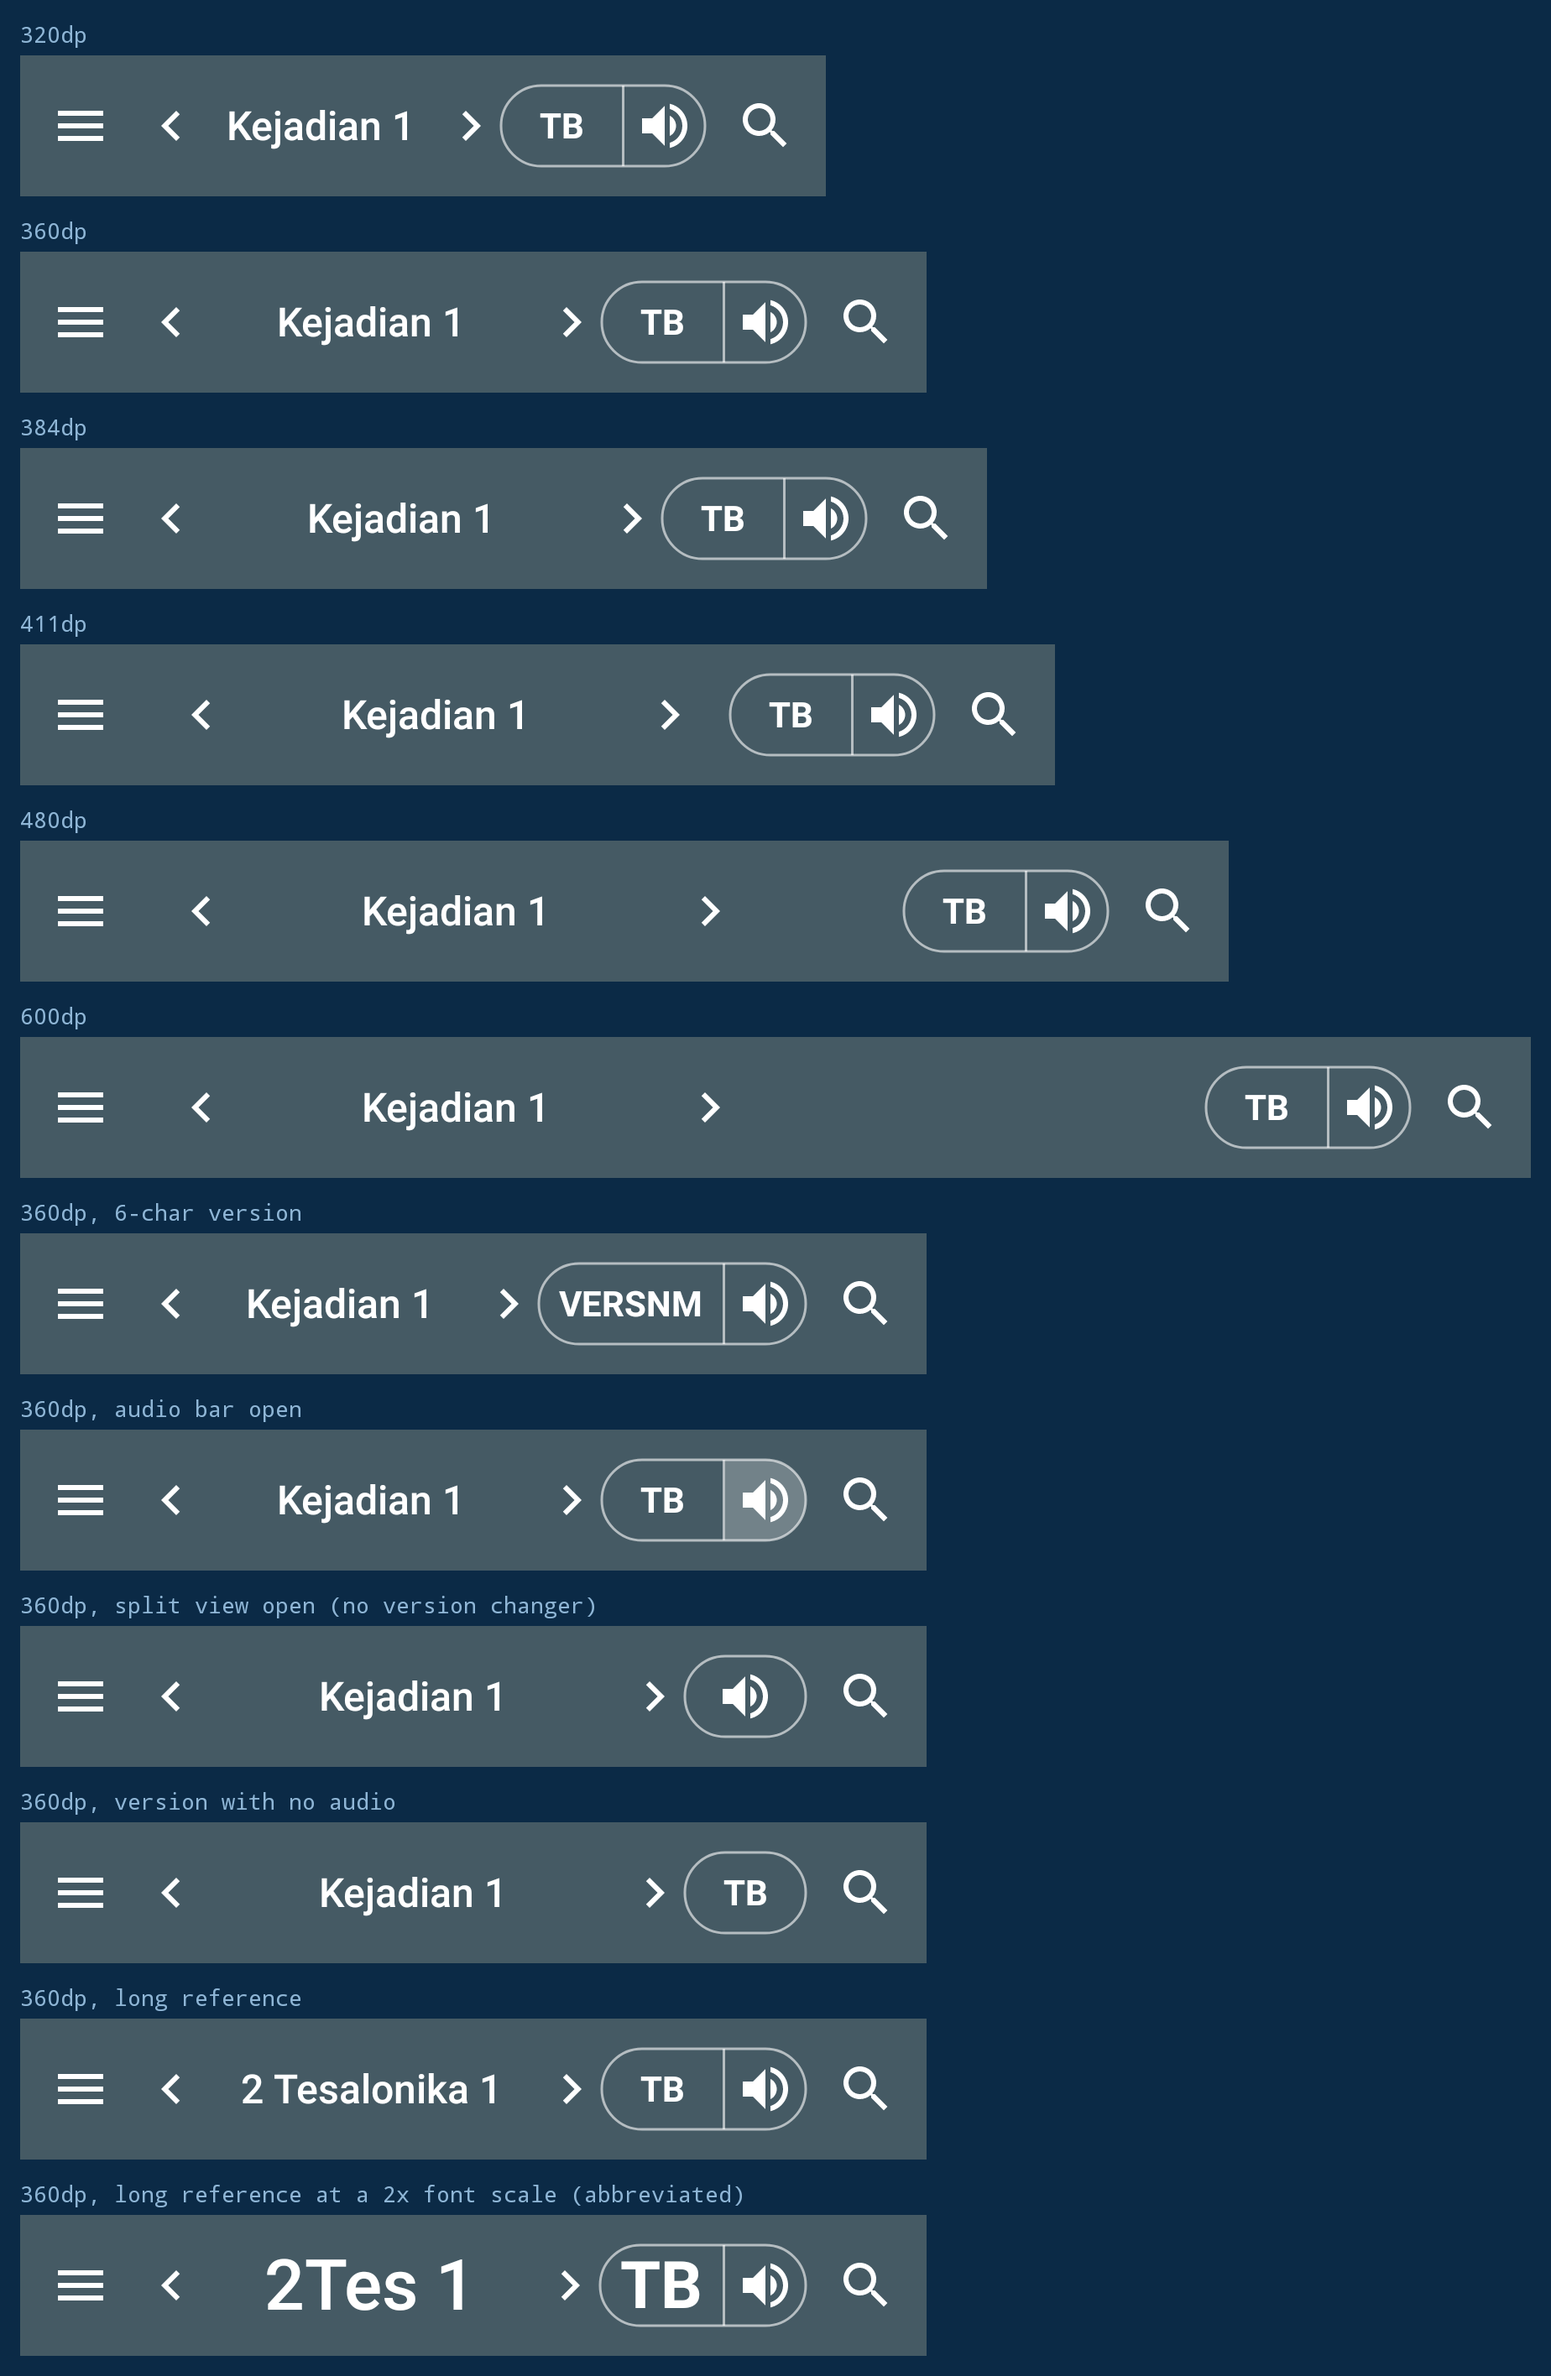
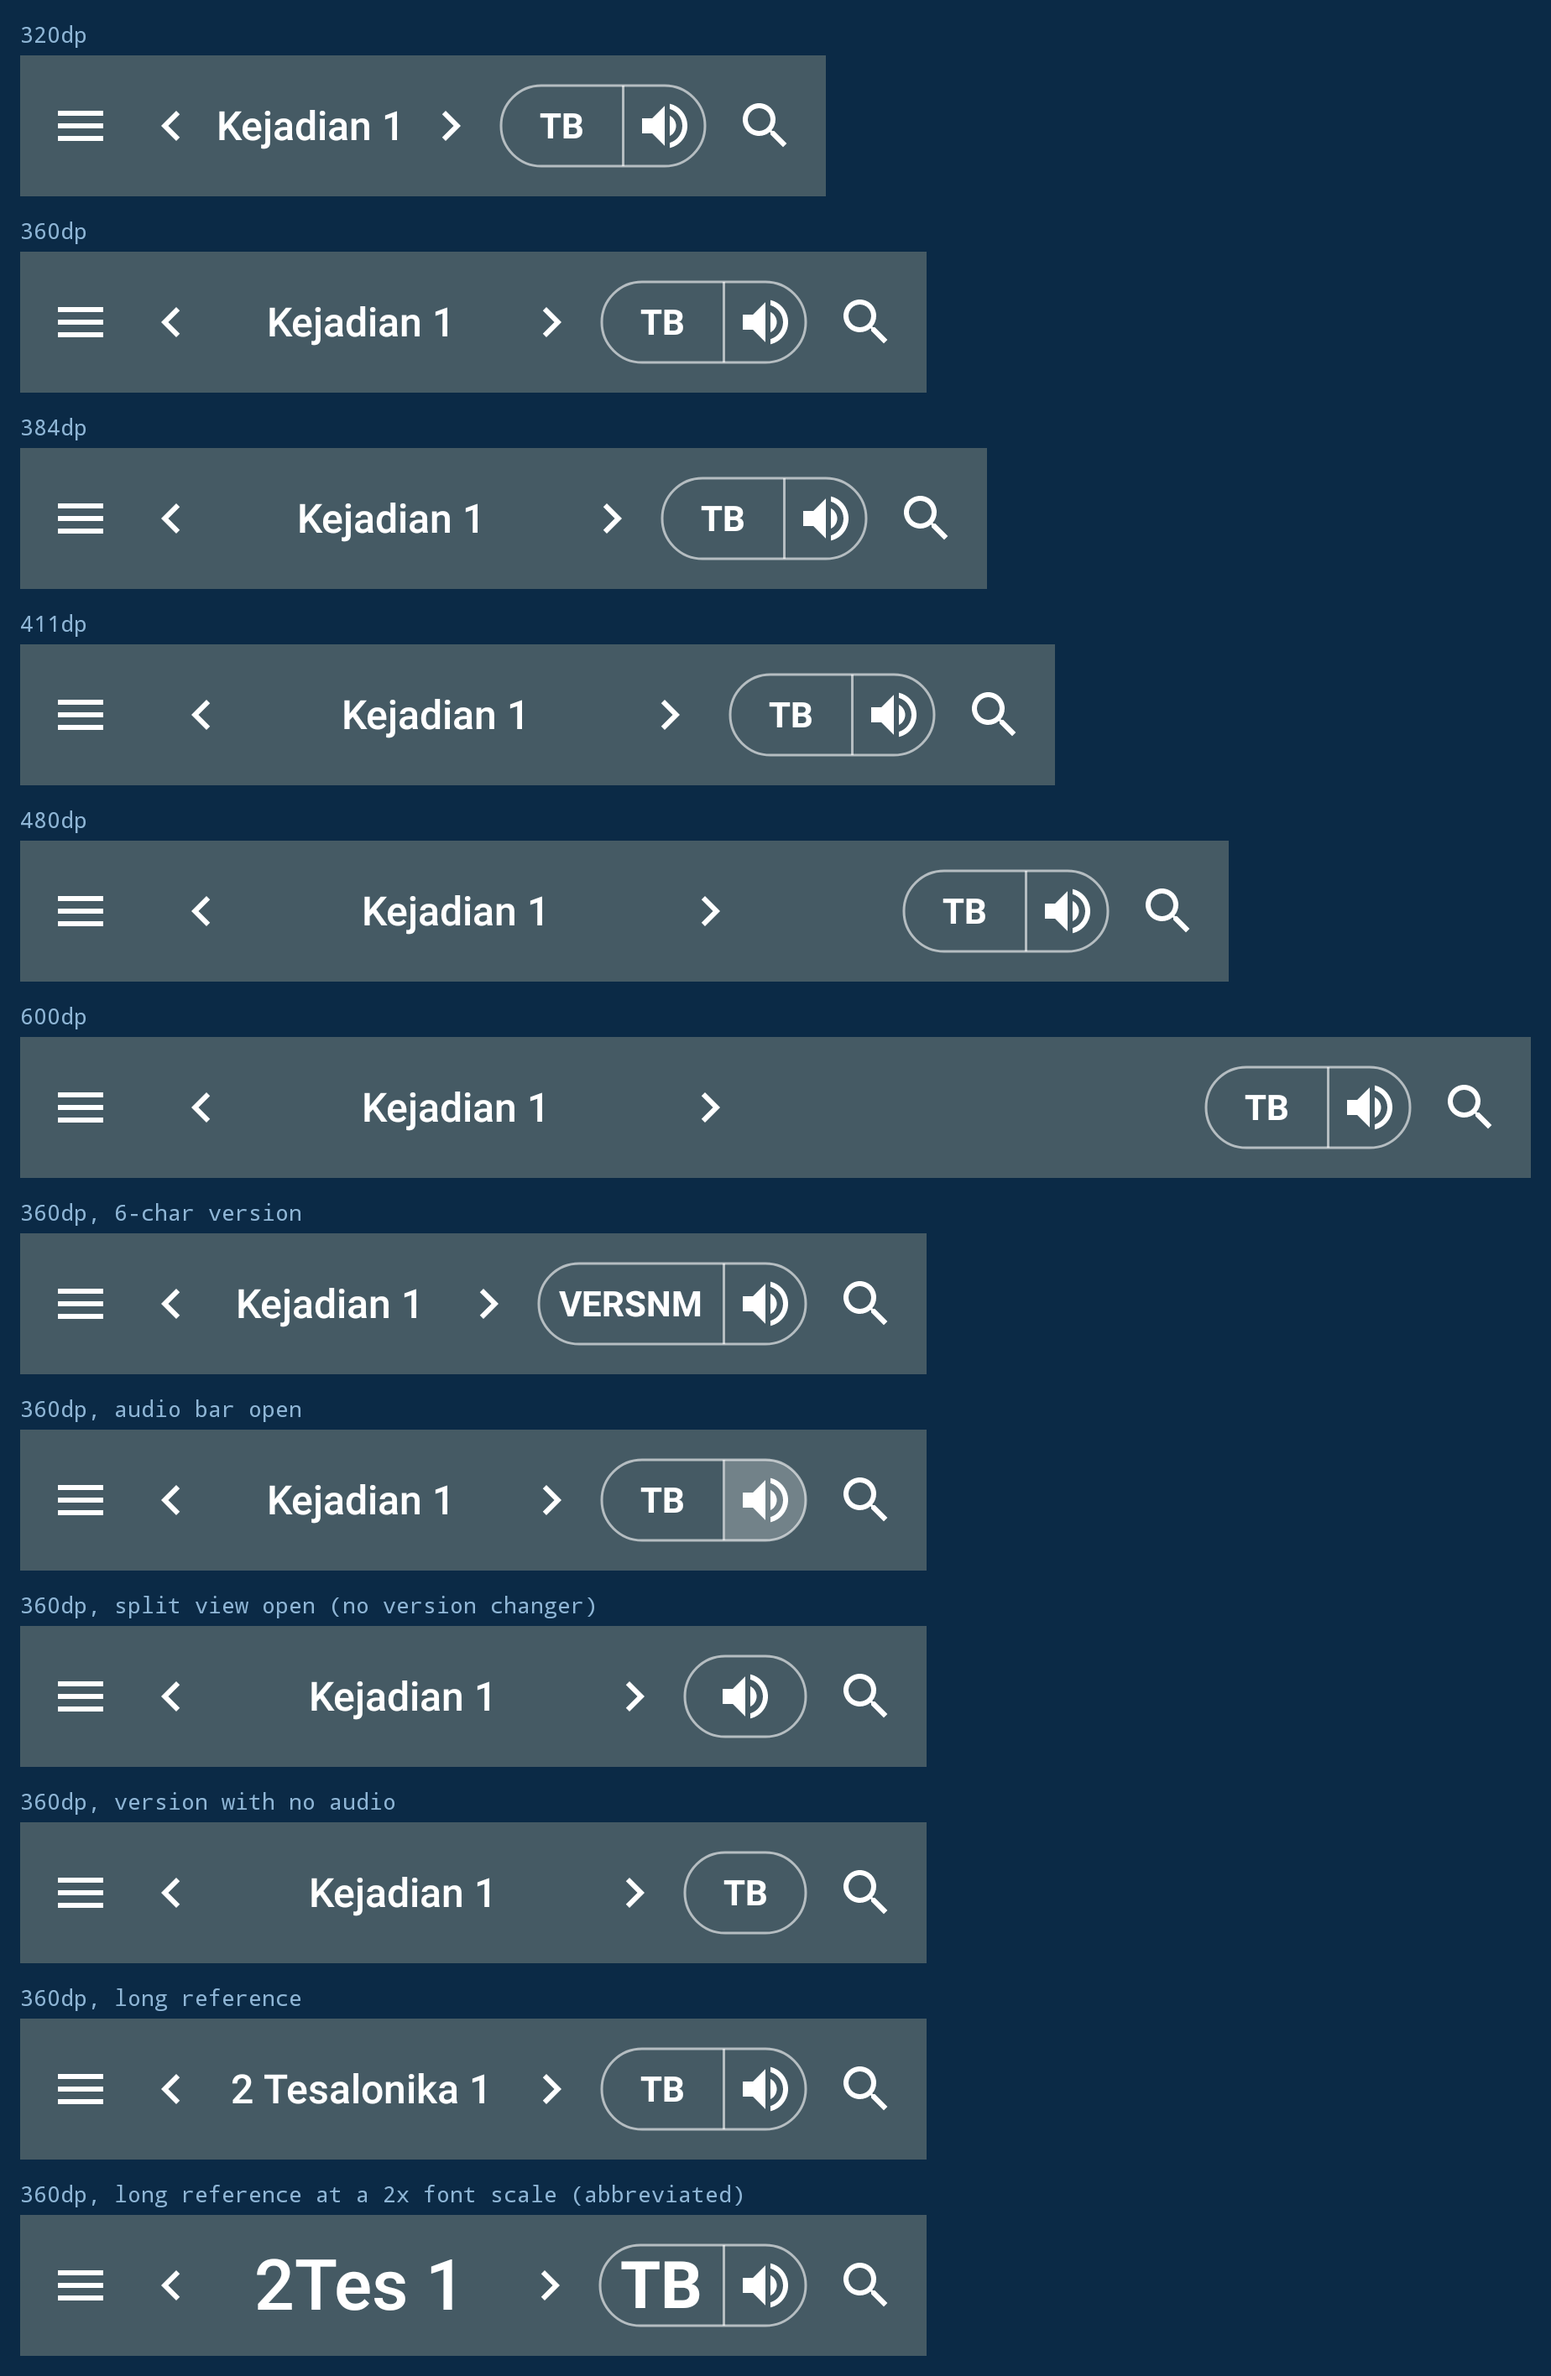
Keep the reader toolbar stadium 8dp clear of a flush chevron
Below 411dp the next chapter chevron is drawn against the outer edge of
its own box, which leaves it hard against the version/audio stadium.
Reserve 8dp in front of the stadium at those widths, taking the chevron's
ink from 7dp off the stadium outline to 15dp. The stadium stays
right-anchored against the search button, so the clearance comes out of
the navigation cluster's width instead of moving the control. At 411dp
and above the chevron is centred in its own box and already stands half a
box clear, so nothing is added, and with both stadium halves hidden there
is nothing to keep clear of.

Add a render that writes every case the clearance depends on (six widths
crossed with the four combinations of stadium halves), plus checks for
the stadium's drawn left edge at each width.

Claude-Session: https://claude.ai/code/session_019omvKkYrcnyVKUe7b3Bmvw

diff --git a/Alkitab/src/test/java/yuku/alkitab/base/compose/toolbar/ReaderToolbarComposeTest.kt b/Alkitab/src/test/java/yuku/alkitab/base/compose/toolbar/ReaderToolbarComposeTest.kt
@@ -166,10 +166,31 @@ class ReaderToolbarComposeTest {
     /** Either half on its own keeps the stadium and takes the 48dp minimum. */
     private val loneSegmentDp = ReaderToolbarDimens.chipMinWidth.value
 
+    /** Reserved in front of the stadium for as long as the next chevron is flush. */
+    private fun versionGapDp(widthDp: Int, segmentDp: Float) =
+        if (segmentDp > 0f && widthDp < ReaderToolbarDimens.flushBelowWidth.value) {
+            ReaderToolbarDimens.versionGap.value
+        } else {
+            0f
+        }
+
     private fun clusterWidthDp(widthDp: Int, segmentDp: Float) = minOf(
-        widthDp - ReaderToolbarDimens.drawerWidth.value - ReaderToolbarDimens.searchWidth.value - segmentDp,
+        widthDp - ReaderToolbarDimens.drawerWidth.value - ReaderToolbarDimens.searchWidth.value -
+            segmentDp - versionGapDp(widthDp, segmentDp),
         ReaderToolbarDimens.clusterMaxWidth.value,
     )
+
+    /** Leftmost column the stadium outline is painted on, in dp from the bar's left edge. */
+    private fun stadiumLeftDp(laid: Laid): Float {
+        val clusterRight = laid.referenceTouch.right + px(laid.arrowDp)
+        val box = Rect(
+            clusterRight,
+            laid.referenceTouch.top,
+            laid.bitmap.width - px(ReaderToolbarDimens.searchWidth.value),
+            laid.referenceTouch.bottom,
+        )
+        return dp(firstInkColumn(laid.bitmap, box))
+    }
 
     @Test
     fun `the drawer button gives up the 56dp the navigation style forces on the view toolbar`() {
@@ -264,6 +285,57 @@ class ReaderToolbarComposeTest {
     }
 
     @Test
+    fun `the stadium stays against the search button and takes its clearance out of the cluster`() {
+        for (widthDp in shippingWidths) {
+            val laid = layOut(widthDp, stateFor())
+            val clusterRightDp = dp(laid.referenceTouch.right) + laid.arrowDp
+            // Right-anchored next to search, so where the cluster stops short
+            // of it the slack shows up in front of the stadium.
+            val expectedLeftDp = widthDp - ReaderToolbarDimens.searchWidth.value - shortSegmentDp
+            assertEquals("stadium left edge at ${widthDp}dp", expectedLeftDp, stadiumLeftDp(laid), 0.7f)
+            assertTrue(
+                "the stadium should keep its clearance at ${widthDp}dp",
+                expectedLeftDp - clusterRightDp >= versionGapDp(widthDp, shortSegmentDp) - 0.7f,
+            )
+        }
+    }
+
+    @Test
+    fun `a flush next chevron is held 8dp off the stadium`() {
+        for (widthDp in listOf(320, 360, 384)) {
+            val laid = layOut(widthDp, stateFor())
+            val clusterRightDp = dp(laid.referenceTouch.right) + laid.arrowDp
+            assertEquals(
+                "clearance at ${widthDp}dp",
+                ReaderToolbarDimens.versionGap.value,
+                stadiumLeftDp(laid) - clusterRightDp,
+                0.7f,
+            )
+        }
+    }
+
+    @Test
+    fun `a centred next chevron stands clear on its own and is given nothing extra`() {
+        val laid = layOut(411, stateFor())
+        val clusterRightDp = dp(laid.referenceTouch.right) + laid.arrowDp
+        assertEquals(0f, stadiumLeftDp(laid) - clusterRightDp, 0.7f)
+    }
+
+    @Test
+    fun `an absent stadium reserves no clearance`() {
+        for (widthDp in listOf(320, 360, 384)) {
+            val bare = stateFor(audio = false).copy(versionVisible = false)
+            val laid = layOut(widthDp, bare)
+            assertEquals(
+                "cluster width at ${widthDp}dp",
+                clusterWidthDp(widthDp, 0f),
+                dp(laid.clusterWidthPx(px(laid.arrowDp))),
+                0.7f,
+            )
+        }
+    }
+
+    @Test
     fun `a version name longer than six characters is cut to five plus an ellipsis`() {
         assertEquals("TB", versionLabelFor("TB"))
         assertEquals("VERSNM", versionLabelFor("VERSNM"))
@@ -333,6 +405,39 @@ class ReaderToolbarComposeTest {
             "360dp, long reference" +
             "360dp, long reference at a 2x font scale (abbreviated)"
 
+        writeSheet("compose-toolbar.png", laids, labels)
+    }
+
+    /**
+     * Not a pass/fail guard: every combination the clearance in front of the
+     * stadium depends on, which is the chevron placement crossed with which
+     * halves of the stadium are present.
+     */
+    @Test
+    fun `render every case the stadium clearance depends on`() {
+        val stadiumCases = listOf(
+            "version + audio" to stateFor(),
+            "version only" to stateFor(audio = false),
+            "audio only" to stateFor().copy(versionVisible = false),
+            "neither" to stateFor(audio = false).copy(versionVisible = false),
+        )
+        val widths = shippingWidths
+
+        val laids = mutableListOf<Laid>()
+        val labels = mutableListOf<String>()
+        for (widthDp in widths) {
+            val flush = widthDp < ReaderToolbarDimens.flushBelowWidth.value
+            val placement = if (flush) "next chevron flush right" else "next chevron centred"
+            for ((name, state) in stadiumCases) {
+                laids += layOut(widthDp, state)
+                labels += "${widthDp}dp, $placement, $name"
+            }
+        }
+
+        writeSheet("compose-toolbar-stadium-clearance.png", laids, labels)
+    }
+
+    private fun writeSheet(name: String, laids: List<Laid>, labels: List<String>) {
         val gutter = px(8)
         val labelHeight = px(14)
         val sheetWidth = laids.maxOf { it.bitmap.width } + gutter * 2
@@ -357,7 +462,7 @@ class ReaderToolbarComposeTest {
 
         val outputDir = File(System.getenv("TOOLBAR_AUDIT_DIR") ?: "build/reports/toolbar-audit")
         outputDir.mkdirs()
-        val file = File(outputDir, "compose-toolbar.png")
+        val file = File(outputDir, name)
         file.outputStream().use { sheet.compress(Bitmap.CompressFormat.PNG, 100, it) }
         println("compose toolbar render written to ${file.absolutePath}")
     }

diff --git a/Alkitab/src/main/java/yuku/alkitab/base/compose/toolbar/ReaderToolbar.kt b/Alkitab/src/main/java/yuku/alkitab/base/compose/toolbar/ReaderToolbar.kt
@@ -78,6 +78,14 @@ object ReaderToolbarDimens {
     val chipSidePadding = 8.dp
     val speakerWidth = 32.dp
 
+    /**
+     * Clearance kept in front of the version/audio stadium where the next
+     * chapter chevron is drawn flush against the outer edge of its box and
+     * would otherwise end hard against the stadium. A centred chevron already
+     * stands half its own box clear of it.
+     */
+    val versionGap = 8.dp
+
     val referenceTextSize = 16.sp
     val versionTextSize = 14.sp
 
@@ -188,7 +196,12 @@ fun ReaderToolbar(
                     maxHeight = height,
                 )
             )
-            val clusterWidth = (constraints.maxWidth - drawerPx - searchPx - version.width)
+            val gapPx = if (flush && version.width > 0) {
+                ReaderToolbarDimens.versionGap.roundToPx()
+            } else {
+                0
+            }
+            val clusterWidth = (constraints.maxWidth - drawerPx - searchPx - version.width - gapPx)
                 .coerceIn(0, ReaderToolbarDimens.clusterMaxWidth.roundToPx())
             val cluster = clusterSlot.measure(fixed(clusterWidth, height))
 

diff --git a/docs/features/toolbar/compose-implementation.md b/docs/features/toolbar/compose-implementation.md
@@ -86,6 +86,24 @@ space the centred arrows were padding. At 411 dp and above the arrows stay
 centred, because the bar already has room. `ReaderToolbar` decides this from
 the measured bar width, not from a hard-coded breakpoint list.
 
+### 8 dp of clearance in front of the stadium where the chevron is flush
+
+Below 411 dp the next chapter chevron is drawn against the outer edge of its
+own box, which puts it hard against the version/audio stadium. The stadium is
+reserved 8 dp of clearance there, taking the chevron's ink from 7 dp off the
+stadium outline to 15 dp. The stadium stays right-anchored against the search
+button, so the 8 dp comes out of the navigation cluster's width rather than
+moving the control.
+
+At 411 dp and above the chevron is centred in its own box and already stands
+half a box clear of the stadium, so nothing is added.
+
+![The bar at 320, 360, 384, 411, 480 and 600 dp, each with the version changer and speaker, the version changer alone, the speaker alone, and neither](compose-toolbar-stadium-clearance.png)
+
+Every flush width is affected, whether the stadium is showing both halves or
+either one alone. With neither half showing there is no stadium to keep clear
+of, so the reference keeps the full width.
+
 ### Version changer and speaker as one segmented stadium
 
 The version changer and the audio button share a single stadium outline split
@@ -163,7 +181,11 @@ take their own touches and no such carve-out is needed.
 
 `ReaderToolbarComposeTest` lays the Compose bar out at every shipping width,
 at xxhdpi so 1 dp is 3 px, and checks the slot widths through the reference
-bounds the bar reports. It also writes `compose-toolbar.png`, the image above.
+bounds the bar reports. Where a check needs the drawn result rather than a
+slot width, such as where the stadium's outline starts, it reads the leftmost
+painted column out of the rendered bitmap. It also writes
+`compose-toolbar.png` and `compose-toolbar-stadium-clearance.png`, the two
+images above.
 
 ```bash
 ./gradlew :Alkitab:testPlainDebugUnitTest --tests "yuku.alkitab.base.compose.toolbar.ReaderToolbarComposeTest"
